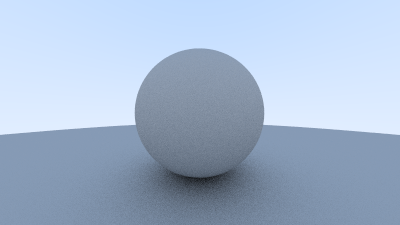
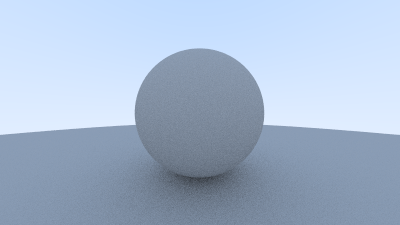
True Lambertian Reflection

Changed region(s): [[0.39, 0.7467, 0.6, 0.9022]]

diff --git a/src/main.rs b/src/main.rs
@@ -21,7 +21,7 @@ pub fn ray_color(ray: &Ray, world: &HittableList, depth: usize) -> Vec3 {
 
     let result = world.hit(0.001, f32::MAX, ray);
     if let Some(rec) = result {
-        let target: Vec3 = rec.p + rec.normal.unwrap() + Vec3::rand_in_unit_sphere();
+        let target: Vec3 = rec.p + rec.normal.unwrap() + Vec3::random_unit_vector();
         return 0.5 * ray_color(&Ray::new(rec.p, target - rec.p), world, depth - 1);
     }
     const WHITE: Vec3 = Vec3(1.0, 1.0, 1.0);

diff --git a/src/vec.rs b/src/vec.rs
@@ -135,12 +135,16 @@ impl Vec3 {
     //     )
     // }
 
-    pub(crate) fn rand_in_unit_sphere() -> Vec3 {
+    pub fn rand_in_unit_sphere() -> Vec3 {
         loop {
             let p = 2.0 * random::<Vec3>() - Vec3(1.0, 1.0, 1.0);
             if p.squared_length() < 1.0 {
                 return p;
             }
         }
+    }
+
+    pub fn random_unit_vector() -> Vec3 {
+        Vec3::rand_in_unit_sphere().to_unit_vector()
     }
 }
